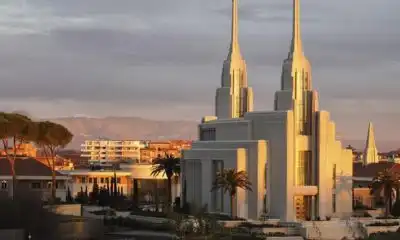
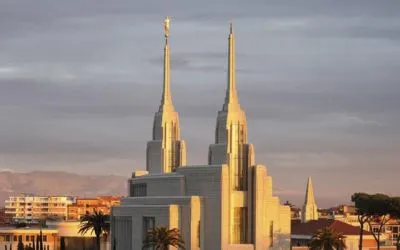
W06 Collaboration done

diff --git a/index.html b/index.html
@@ -37,7 +37,8 @@
         <div class="hero">
             <picture>
                 <source media="(max-width: 400px)" srcset="images/hero-small.webp">
-                <img src="images/hero.webp" alt="temple square picture" width="960" height="576">
+                <source media="(max-width: 960px)" srcset="images/hero-medium.webp">
+                <img src="images/hero-large.webp" alt="temple square picture" width="1280" height="800">
             </picture>
             <div class="hero-label">
                 Rome Temple
